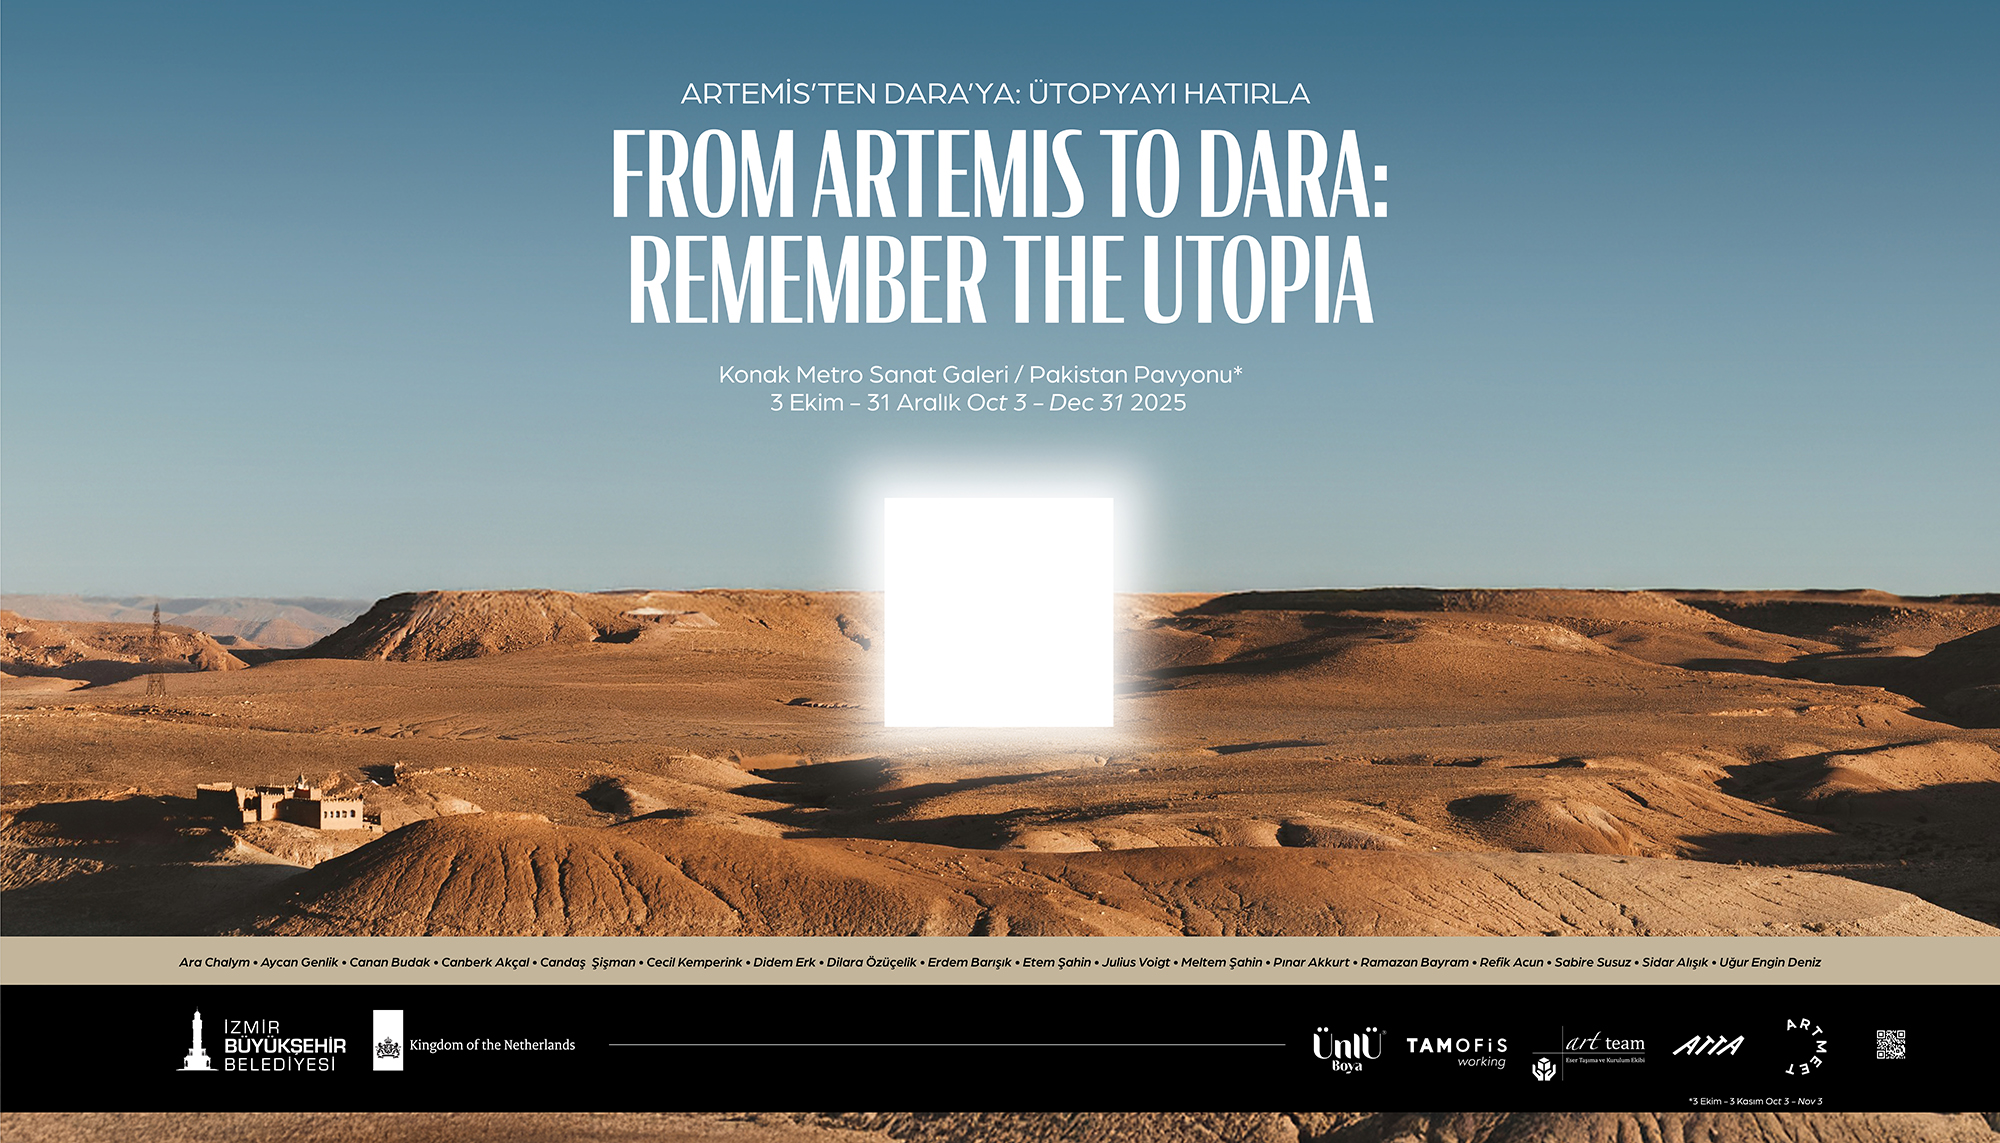
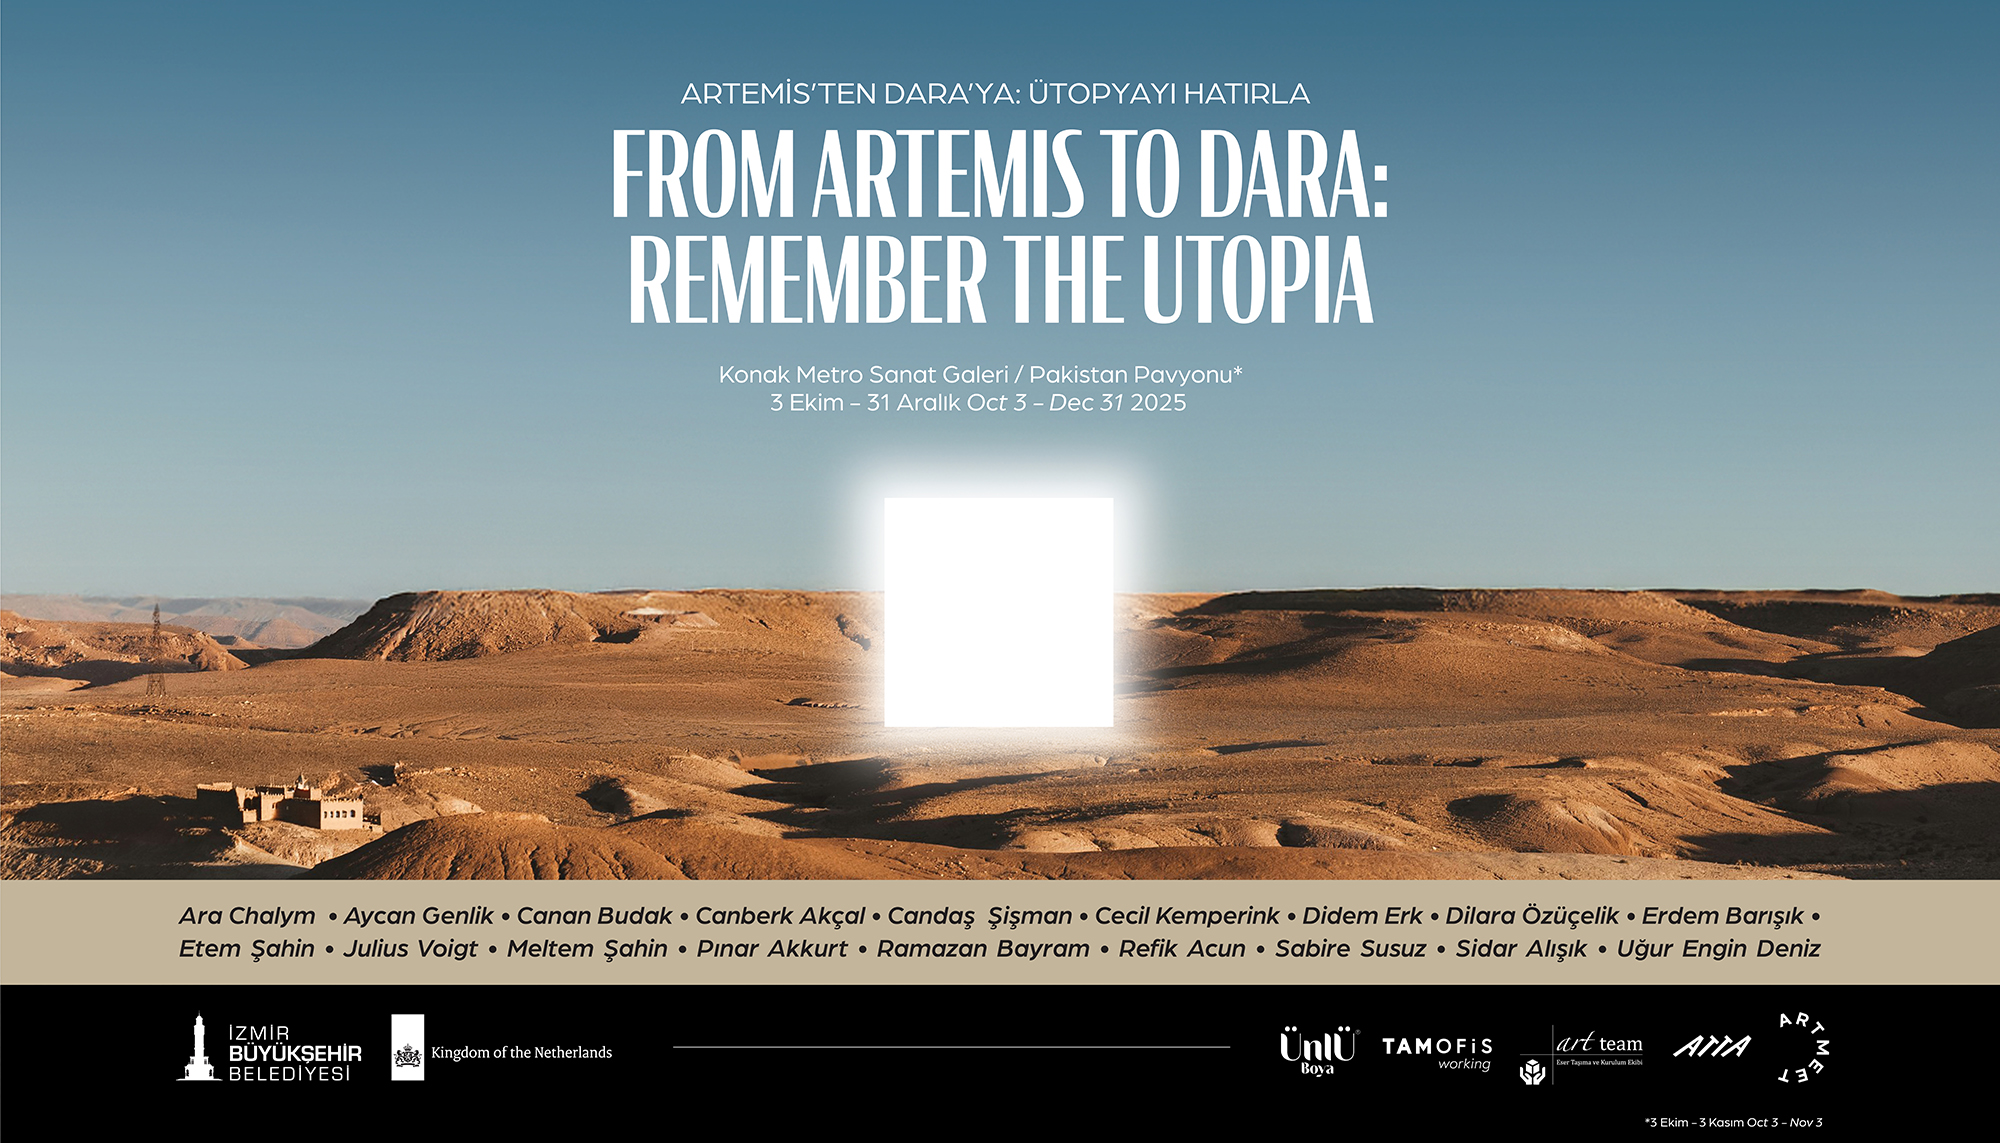
fixed font

Changed region(s): [[0.0, 0.888, 1.0, 1.0], [0.0, 0.7655, 1.0, 0.8574]]

diff --git a/src/components/Navigation.tsx b/src/components/Navigation.tsx
@@ -43,7 +43,7 @@ const Navigation = () => {
             <img
               src={getAssetPath("logo-white-bg.png")}
               alt="ARTMEET Logo"
-              className="h-[72px] w-auto"
+              className="h-[96px] w-auto"
             />
           </div>
           

diff --git a/index.html b/index.html
@@ -16,6 +16,7 @@
     <link rel="icon" type="image/png" sizes="16x16" href="/favicon-16x16.png">
 
     <link rel="manifest" href="/site.webmanifest">
+    <link rel="stylesheet" href="https://use.typekit.net/mcj4orf.css">
   </head>
 
   <body>

diff --git a/src/index.css b/src/index.css
@@ -153,3 +153,7 @@
     @apply italic text-white/90 flex-1;
   }
 }
+
+html {
+  font-family: arboria, sans-serif;
+}
